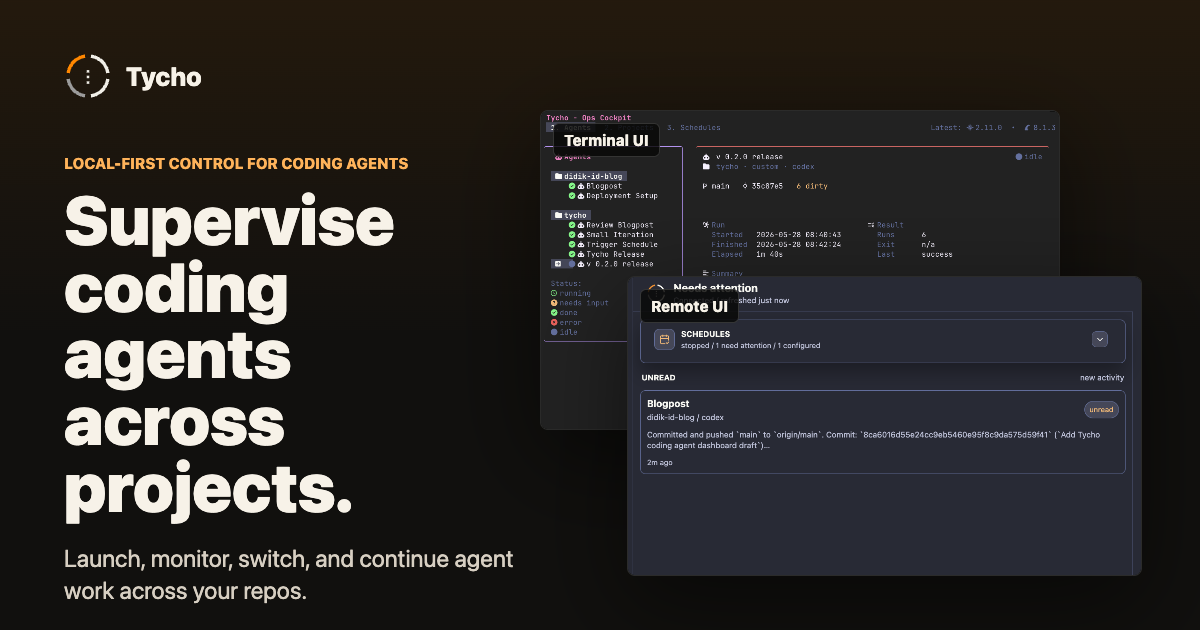
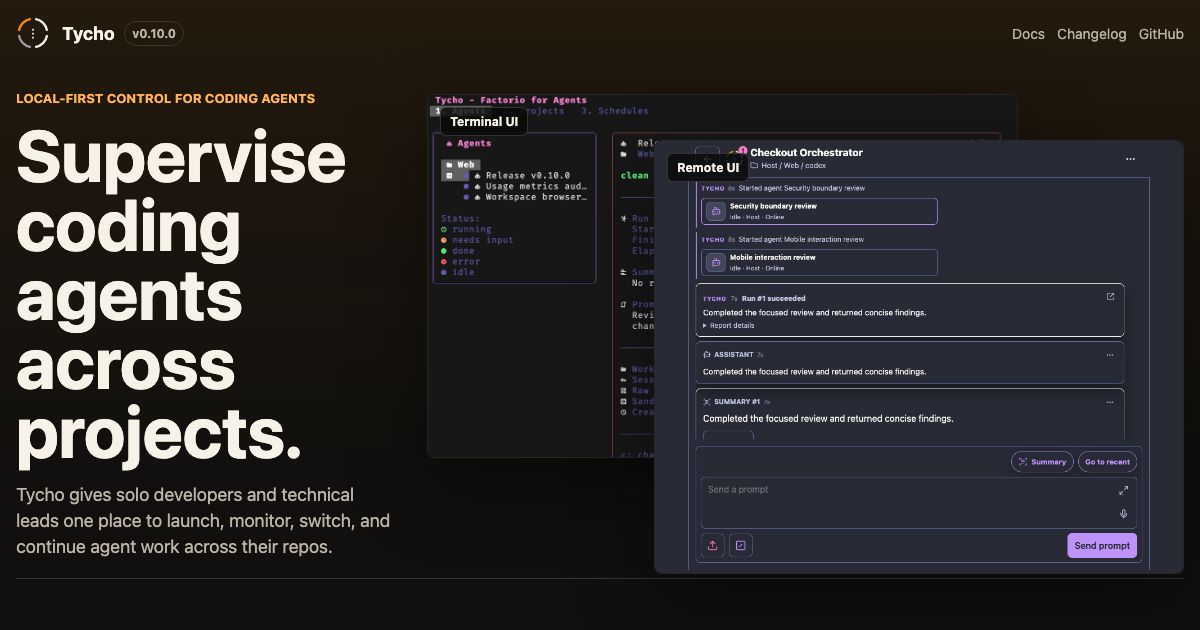
Update site for Tycho v0.10.0 (#2)

diff --git a/src/styles/site.css b/src/styles/site.css
@@ -223,6 +223,7 @@ h1 {
 
 .proof,
 .pillars,
+.release,
 .workflow {
 	width: min(1180px, calc(100% - 32px));
 	margin: 0 auto;
@@ -255,6 +256,7 @@ h1 {
 
 .proof p,
 .pillar p,
+.release p,
 .workflow li {
 	color: var(--muted);
 	font-size: 17px;
@@ -270,6 +272,45 @@ h1 {
 	display: grid;
 	grid-template-columns: repeat(3, minmax(0, 1fr));
 	gap: 18px;
+}
+
+.release {
+	border-top: 1px solid var(--line);
+}
+
+.release .section-heading p:last-child {
+	color: var(--muted);
+	font-size: 18px;
+	line-height: 1.6;
+}
+
+.release-grid {
+	display: grid;
+	grid-template-columns: repeat(2, minmax(0, 1fr));
+	gap: 18px;
+}
+
+.release-grid article {
+	border: 1px solid var(--line);
+	border-radius: 8px;
+	background: var(--panel);
+	padding: 24px;
+}
+
+.release-grid h3 {
+	margin-bottom: 12px;
+	font-size: 22px;
+}
+
+.release-grid p {
+	margin-bottom: 0;
+}
+
+.release-actions {
+	display: flex;
+	flex-wrap: wrap;
+	gap: 12px 24px;
+	margin-top: 24px;
 }
 
 .pillar h3 {
@@ -316,6 +357,7 @@ h1 {
 	.hero,
 	.proof,
 	.pillar-grid,
+	.release-grid,
 	.workflow {
 		grid-template-columns: 1fr;
 	}
@@ -358,6 +400,7 @@ h1 {
 
 	.hero,
 	.proof,
+	.release,
 	.pillars,
 	.workflow {
 		width: min(100% - 24px, 1180px);

diff --git a/src/styles/starlight.css b/src/styles/starlight.css
@@ -13,6 +13,24 @@
 	letter-spacing: 0;
 }
 
+:root[data-theme='light'] {
+	--sl-color-accent-low: #ffe4c4;
+	--sl-color-accent: #9a4700;
+	--sl-color-accent-high: #4a2100;
+	--sl-color-white: #11100e;
+	--sl-color-gray-1: #24211d;
+	--sl-color-gray-2: #3a352d;
+	--sl-color-gray-3: #5b5348;
+	--sl-color-gray-4: #958b7c;
+	--sl-color-gray-5: #cfc6b7;
+	--sl-color-gray-6: #eee7dc;
+	--sl-color-black: #f7f2e8;
+}
+
+:root[data-theme='light'] .display-current {
+	color: #34302a;
+}
+
 .site-title {
 	font-weight: 800;
 }

diff --git a/src/content/docs/docs/concept/index.md b/src/content/docs/docs/concept/index.md
@@ -19,6 +19,8 @@ An agent session is one durable unit of supervised work.
 
 It includes the starting prompt, harness, model override if any, status, run count, logs, conversation history, attachments, and follow-up messages. In the Tycho codebase this is often called a managed agent.
 
+An agent session can delegate work to child sessions. Tycho records that relationship, returns each terminal child report to the parent, and keeps the links available in archived history. Delegation stays within one Tycho server.
+
 ## Harness
 
 A harness is the command adapter Tycho uses to run a coding agent.
@@ -33,20 +35,26 @@ A remote server is one Tycho installation that owns its registered projects, age
 
 Remote UI can combine resources from Local and configured peers into one operator view. Each project and agent session keeps its server owner, so reads and mutations return to the Tycho server that owns the resource. A temporary peer failure can leave a stale last-good snapshot visible without moving ownership or copying the underlying agent state.
 
+The CLI can target a configured peer with `--server`. Project reads and agent-session commands then use that server while commands without `--server` continue to use local state.
+
 <div class="multiserver-screenshots">
   <figure>
-    <a href="/assets/web-agents-multiserver.png">
-      <img src="/assets/web-agents-multiserver.png" alt="Tycho v0.9.0 Remote UI listing agents from Host, VPS, and AtasGG with running, blocked, unread, failed, succeeded, answer-required, and idle states" />
+    <a href="/assets/web-delegation-v0.10.0.png">
+      <img src="/assets/web-delegation-v0.10.0.png" alt="Tycho v0.10.0 Remote UI showing a parent agent session with delegated children and a returned report" />
     </a>
-    <figcaption>Agent sessions from three servers in one list, with ownership and attention state kept visible.</figcaption>
+    <figcaption>A parent session keeps child starts and terminal reports in one durable conversation.</figcaption>
   </figure>
   <figure>
-    <a href="/assets/web-projects-multiserver.png">
-      <img src="/assets/web-projects-multiserver.png" alt="Tycho v0.9.0 Remote UI grouping agents by projects owned by Host, VPS, and AtasGG servers" />
+    <a href="/assets/web-workspace-v0.10.0.png">
+      <img src="/assets/web-workspace-v0.10.0.png" alt="Tycho v0.10.0 Remote UI showing a read-only text preview in a project workspace" />
     </a>
-    <figcaption>Project-grouped supervision across Host, VPS, and AtasGG.</figcaption>
+    <figcaption>Registered project files can be listed and previewed without changing the workspace.</figcaption>
   </figure>
 </div>
+
+## Usage Metrics
+
+Tycho normalizes finalized run and native-session usage across supported harnesses. Metrics queries can group or filter tokens and estimated cost without treating unavailable provider telemetry or pricing as zero.
 
 ## Operator Loop
 
@@ -62,4 +70,4 @@ This is why the product pillars are Supervise, Switch, and Loop.
 
 ## Local-First
 
-Tycho coordinates local tools, local repos, local logs, and local agent history. Remote UI is still local-first: it exposes your Tycho server over localhost, local network, or tailnet instead of moving the control plane into hosted SaaS.
+Tycho coordinates local tools, local repos, local logs, and local agent history. Remote UI is still local-first: it exposes your Tycho server over localhost, local network, or tailnet instead of moving the control plane into hosted SaaS. Its workspace browser is read-only and limits listings and text previews to the registered project boundary.

diff --git a/src/content/docs/docs/reference/glossary.md b/src/content/docs/docs/reference/glossary.md
@@ -21,11 +21,19 @@ The repeated workflow of starting work, watching status, reading output, answeri
 
 ## Remote UI
 
-Tycho's browser UI for creating, checking, and controlling agent sessions from localhost, local network, or tailnet. It can create the Welcome Sandbox on an empty installation, but it does not browse the server filesystem or directly register arbitrary local projects.
+Tycho's browser UI for creating, checking, and controlling agent sessions from localhost, local network, or tailnet. It can create the Welcome Sandbox on an empty installation and browse bounded, read-only listings and text previews inside registered projects. It cannot register an arbitrary server path.
 
 ## Remote Server
 
 One Tycho installation that owns its registered projects, agent sessions, logs, and actions. Remote UI can combine server-qualified resources from Local and configured peers, but each operation returns to the server that owns the resource.
+
+## Delegation
+
+A durable parent-child relationship between agent sessions on the same Tycho server. Terminal child reports return to the parent, and both directions remain navigable after archive.
+
+## Usage Metrics
+
+Normalized records for finalized runs and native sessions, including tokens and estimated cost when the harness and pricing data provide them. Unknown values remain unknown rather than becoming zero.
 
 ## Welcome Sandbox
 
@@ -33,7 +41,7 @@ A safe starter project at `~/.tycho/workspaces/welcome`. On an empty installatio
 
 ## Agent-Assisted Project Registration
 
-A Remote UI workflow where an agent in the Welcome Sandbox receives an exact local path and runs the Tycho project CLI for the operator. The agent registers the project; the browser does not access the filesystem directly.
+A Remote UI workflow where an agent in the Welcome Sandbox receives an exact local path and runs the Tycho project CLI for the operator. The agent registers the project; the browser cannot choose an arbitrary unregistered path itself.
 
 ## Local-First
 

diff --git a/src/content/docs/docs/reference/index.md b/src/content/docs/docs/reference/index.md
@@ -27,6 +27,16 @@ tycho agent archive my-project-agent-3
 tycho agent clone my-project-agent-3 --run
 ```
 
+Create an explicit child session:
+
+```bash
+tycho agent create my-project "Check the API boundary" \
+  --parent-agent my-project-agent-3 \
+  --run
+```
+
+Inside a managed Tycho session, a new agent inherits the current parent automatically. Use `--root` only when the new session should be unrelated.
+
 ## Schedules
 
 ```bash
@@ -45,3 +55,41 @@ tycho serve
 ```
 
 When Tailscale is available, Tycho can expose a MagicDNS URL and terminal QR code for checking agent state from another device on your tailnet.
+
+## Remote Servers
+
+After adding a server under `remote_servers` in `~/.tycho/config/hq.yml`, store and verify its credential without placing the token on the command line:
+
+```bash
+tycho server login vps
+tycho server status vps
+tycho server verify vps
+tycho server logout vps
+```
+
+Target that server with the same project and agent commands:
+
+```bash
+tycho project list --server vps
+tycho project show my-project --server vps --json
+tycho agent list my-project --server vps
+tycho agent status my-project-agent-3 --server vps --json
+tycho agent create my-project "Inspect the failing build" --server vps
+tycho agent run my-project-agent-3 --server vps
+tycho agent send my-project-agent-3 "Try the smaller reproduction" --server vps
+tycho agent stop my-project-agent-3 --server vps
+tycho agent archive my-project-agent-3 --server vps
+```
+
+## Usage Metrics
+
+```bash
+tycho metrics backfill --timezone Asia/Jakarta --json
+tycho metrics query \
+  --from 2026-08-01 \
+  --to 2026-08-16 \
+  --timezone Asia/Jakarta
+tycho metrics query --server vps --from 2026-08-01 --to 2026-08-16 --timezone UTC --json
+```
+
+The range starts at `--from` and ends before `--to`. Unknown telemetry and prices remain unknown.

diff --git a/src/content/docs/docs/getting-started/index.md b/src/content/docs/docs/getting-started/index.md
@@ -18,6 +18,15 @@ brew tap firewalker06/tycho
 brew install tycho
 ```
 
+The Tycho v0.10.0 Homebrew release publishes bottles for arm64 Tahoe, Sequoia, and x86_64 Linux. Existing Homebrew users can upgrade with:
+
+```bash
+brew update
+brew upgrade tycho
+```
+
+After upgrading, restart any running `tycho serve` process so the API and browser assets come from the same v0.10.0 build.
+
 ## Install from Source
 
 Use a source checkout when you want to contribute or Homebrew is not suitable:
@@ -137,7 +146,7 @@ See the [CLI Reference](/docs/reference/) for project update and archive command
 
 ### Ask an Agent from Remote UI
 
-Remote UI cannot browse the server filesystem or directly register an arbitrary local directory. It can ask an agent in the Welcome Sandbox to run the project command for you.
+Remote UI cannot register an arbitrary local directory. It can browse files only inside an already registered project, using bounded read-only listings and text previews. To register a new path from the browser, ask an agent in the Welcome Sandbox to run the project command for you.
 
 Create another Welcome Sandbox agent and give it the exact existing path:
 

diff --git a/src/content/docs/docs/configuration/index.md b/src/content/docs/docs/configuration/index.md
@@ -12,6 +12,7 @@ Tycho configuration lives under `~/.tycho` by default.
 | Response style policy | `~/.tycho/config/response_style.md` |
 | Schedules | `~/.tycho/config/schedules.yml` |
 | Runtime state and logs | `~/.tycho/logs/` |
+| Normalized usage metrics | `~/.tycho/logs/usage_metrics.json` |
 
 ## Project Registry
 
@@ -52,5 +53,7 @@ Use `TYCHO_` environment variables when you need a temporary profile or test run
 | `TYCHO_CODEX_BIN` | Override Codex executable lookup. |
 | `TYCHO_CLAUDE_BIN` | Override Claude executable lookup. |
 | `TYCHO_OPENCODE_BIN` | Override OpenCode executable lookup. |
+| `TYCHO_SKILLS_HOME` | Override the home prefix used for isolated harness-skill profiles. |
+| `TYCHO_STRUCTURED_OUTPUT_CORRECTION_LIMIT` | Set structured-output correction attempts from `0` to `5`; the default is `2`. |
 
 Keep secrets, real config files, and generated agent artifacts out of committed repos.

diff --git a/docs/decisions/adr-004-release-version-and-screenshots.md b/docs/decisions/adr-004-release-version-and-screenshots.md
@@ -30,4 +30,4 @@ Tycho v0.9.0 also introduced persistent multiserver Agents and Projects in Remot
 
 The homepage version, release notes, and screenshots move together through an intentional documentation update. Site builds remain deterministic and do not depend on GitHub availability.
 
-Screenshot audits are mandatory for release updates, while full recapture remains conditional. Synthetic fixtures make the multiserver model concrete without publishing live peer data or credentials.
+Screenshot audits are mandatory for release updates, while full recapture remains conditional. Synthetic fixtures make current product behavior concrete without publishing live peer data or credentials. For v0.10.0, images whose fixtures named v0.9.0 were replaced with exact-release captures of the TUI, delegation, workspace preview, and run-summary navigation.
